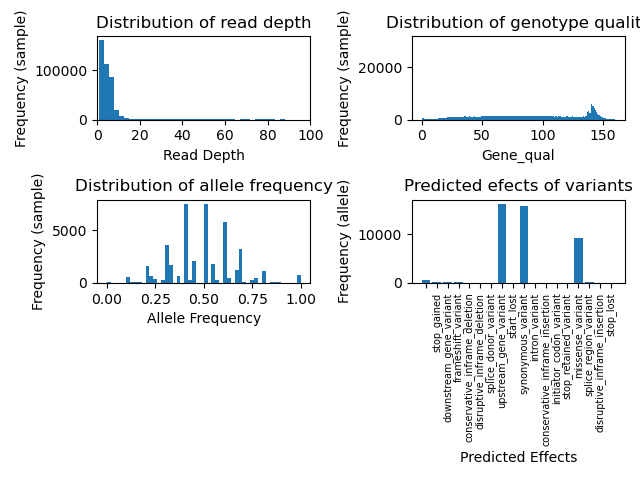
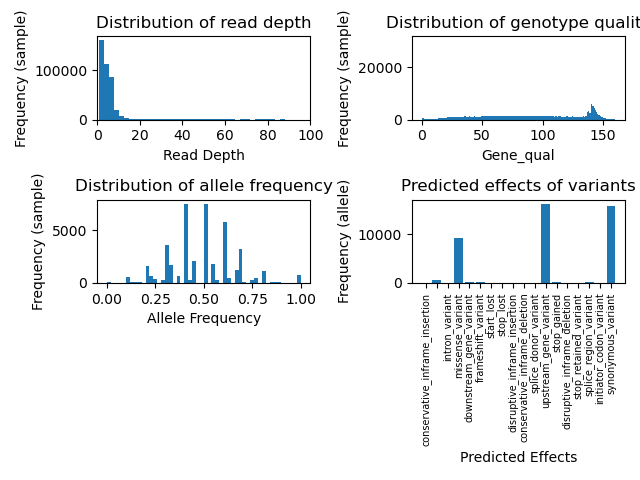
haha spelling mistakes

Changed region(s): [[0.625, 0.375, 1.0, 0.9375]]

diff --git a/week5/variation_analysis.py b/week5/variation_analysis.py
@@ -110,7 +110,7 @@ effect_values = list(effects_dict.values())
 ax4.bar(range(len(effects_dict)), effect_values)
 ax4.set_xlabel("Predicted Effects")
 ax4.set_ylabel("Frequency (allele)")
-ax4.set_title("Predicted efects of variants")
+ax4.set_title("Predicted effects of variants")
 ax4.set_xticks(range(len(effect_keys)))
 ax4.set_xticklabels(effect_keys, rotation = 'vertical',  fontsize = 7)
 
